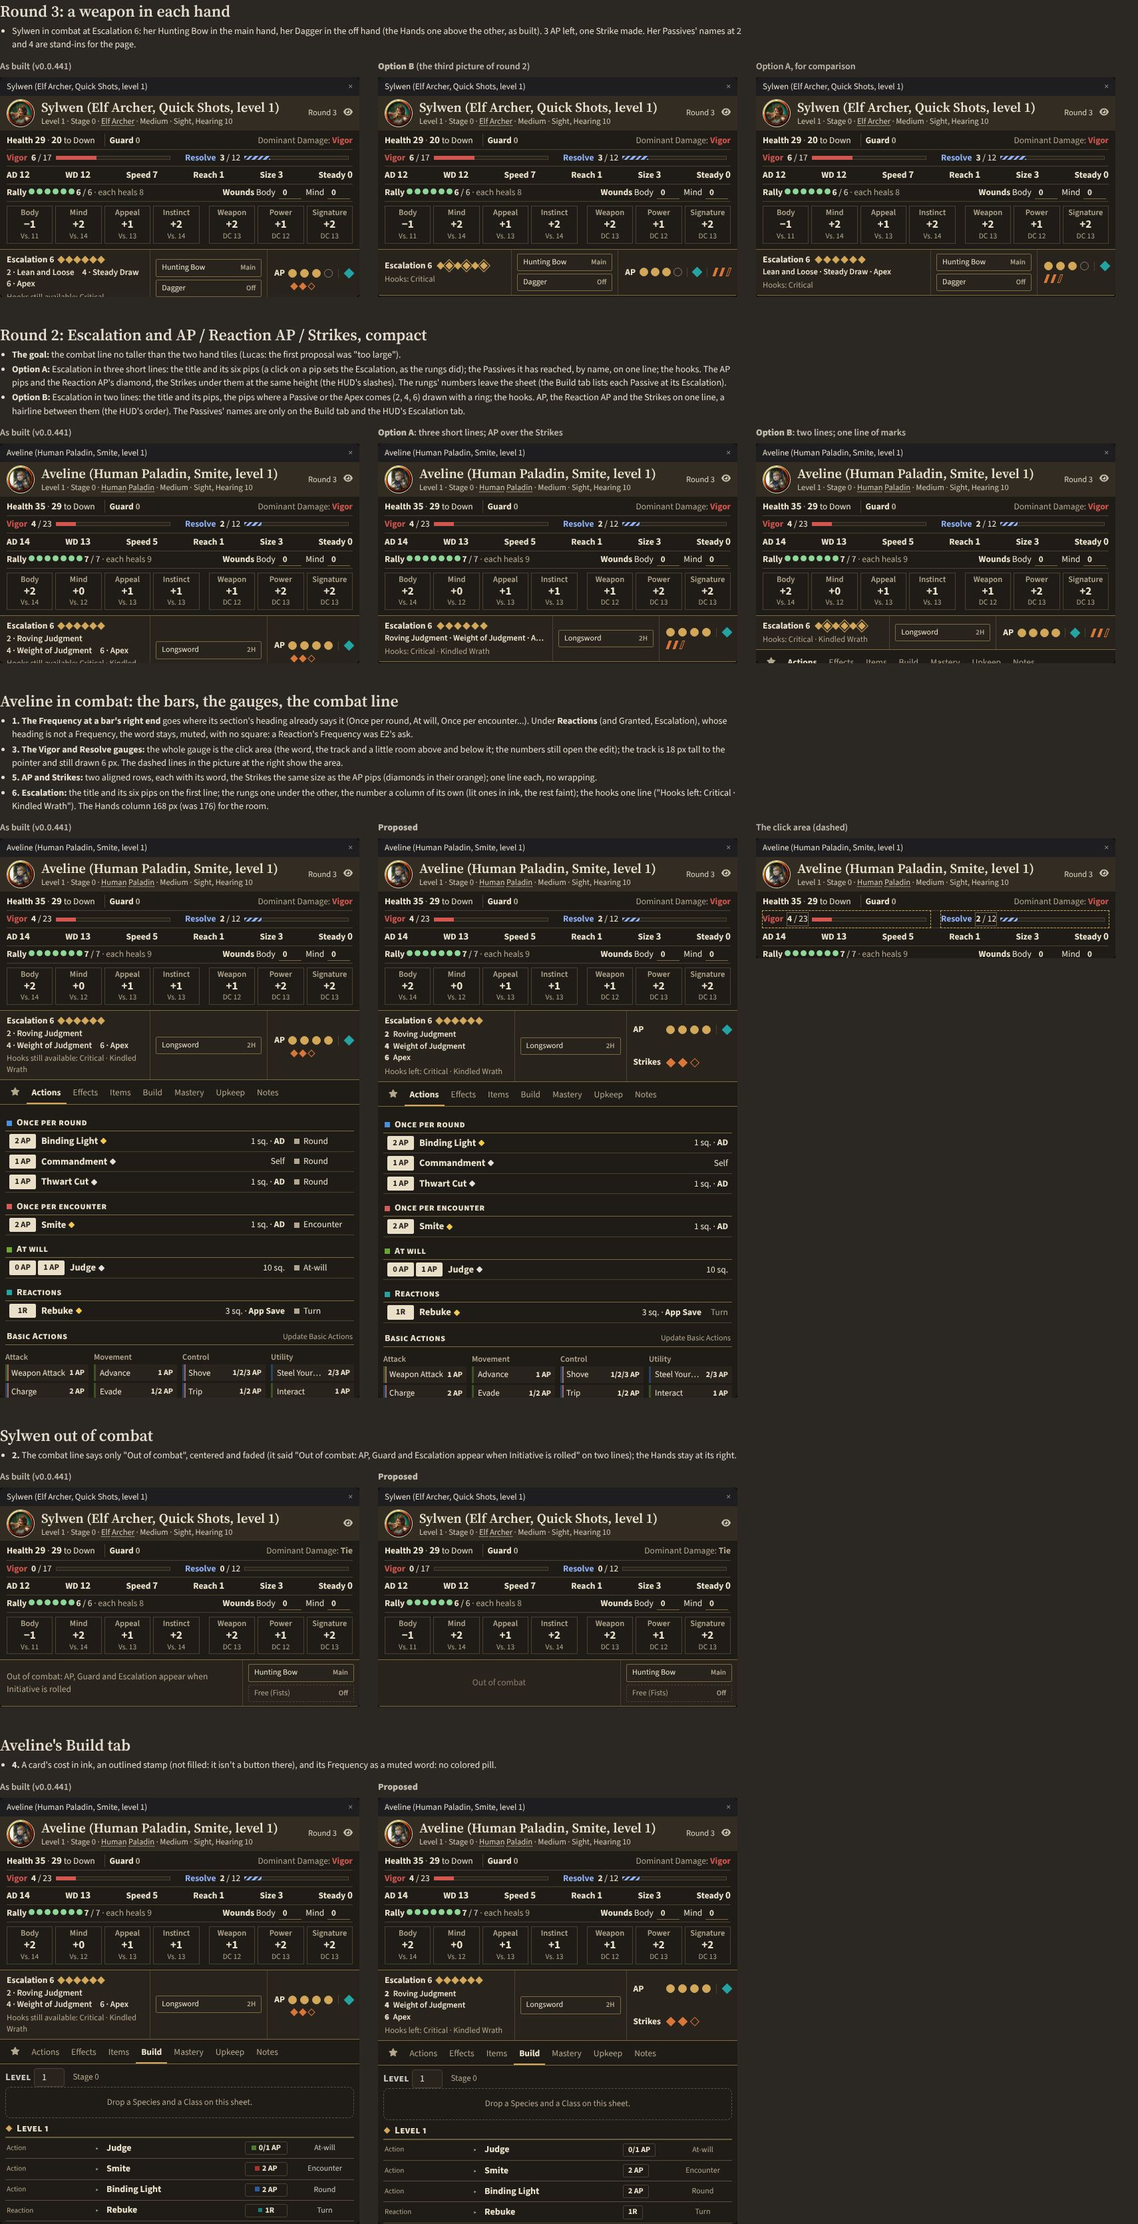
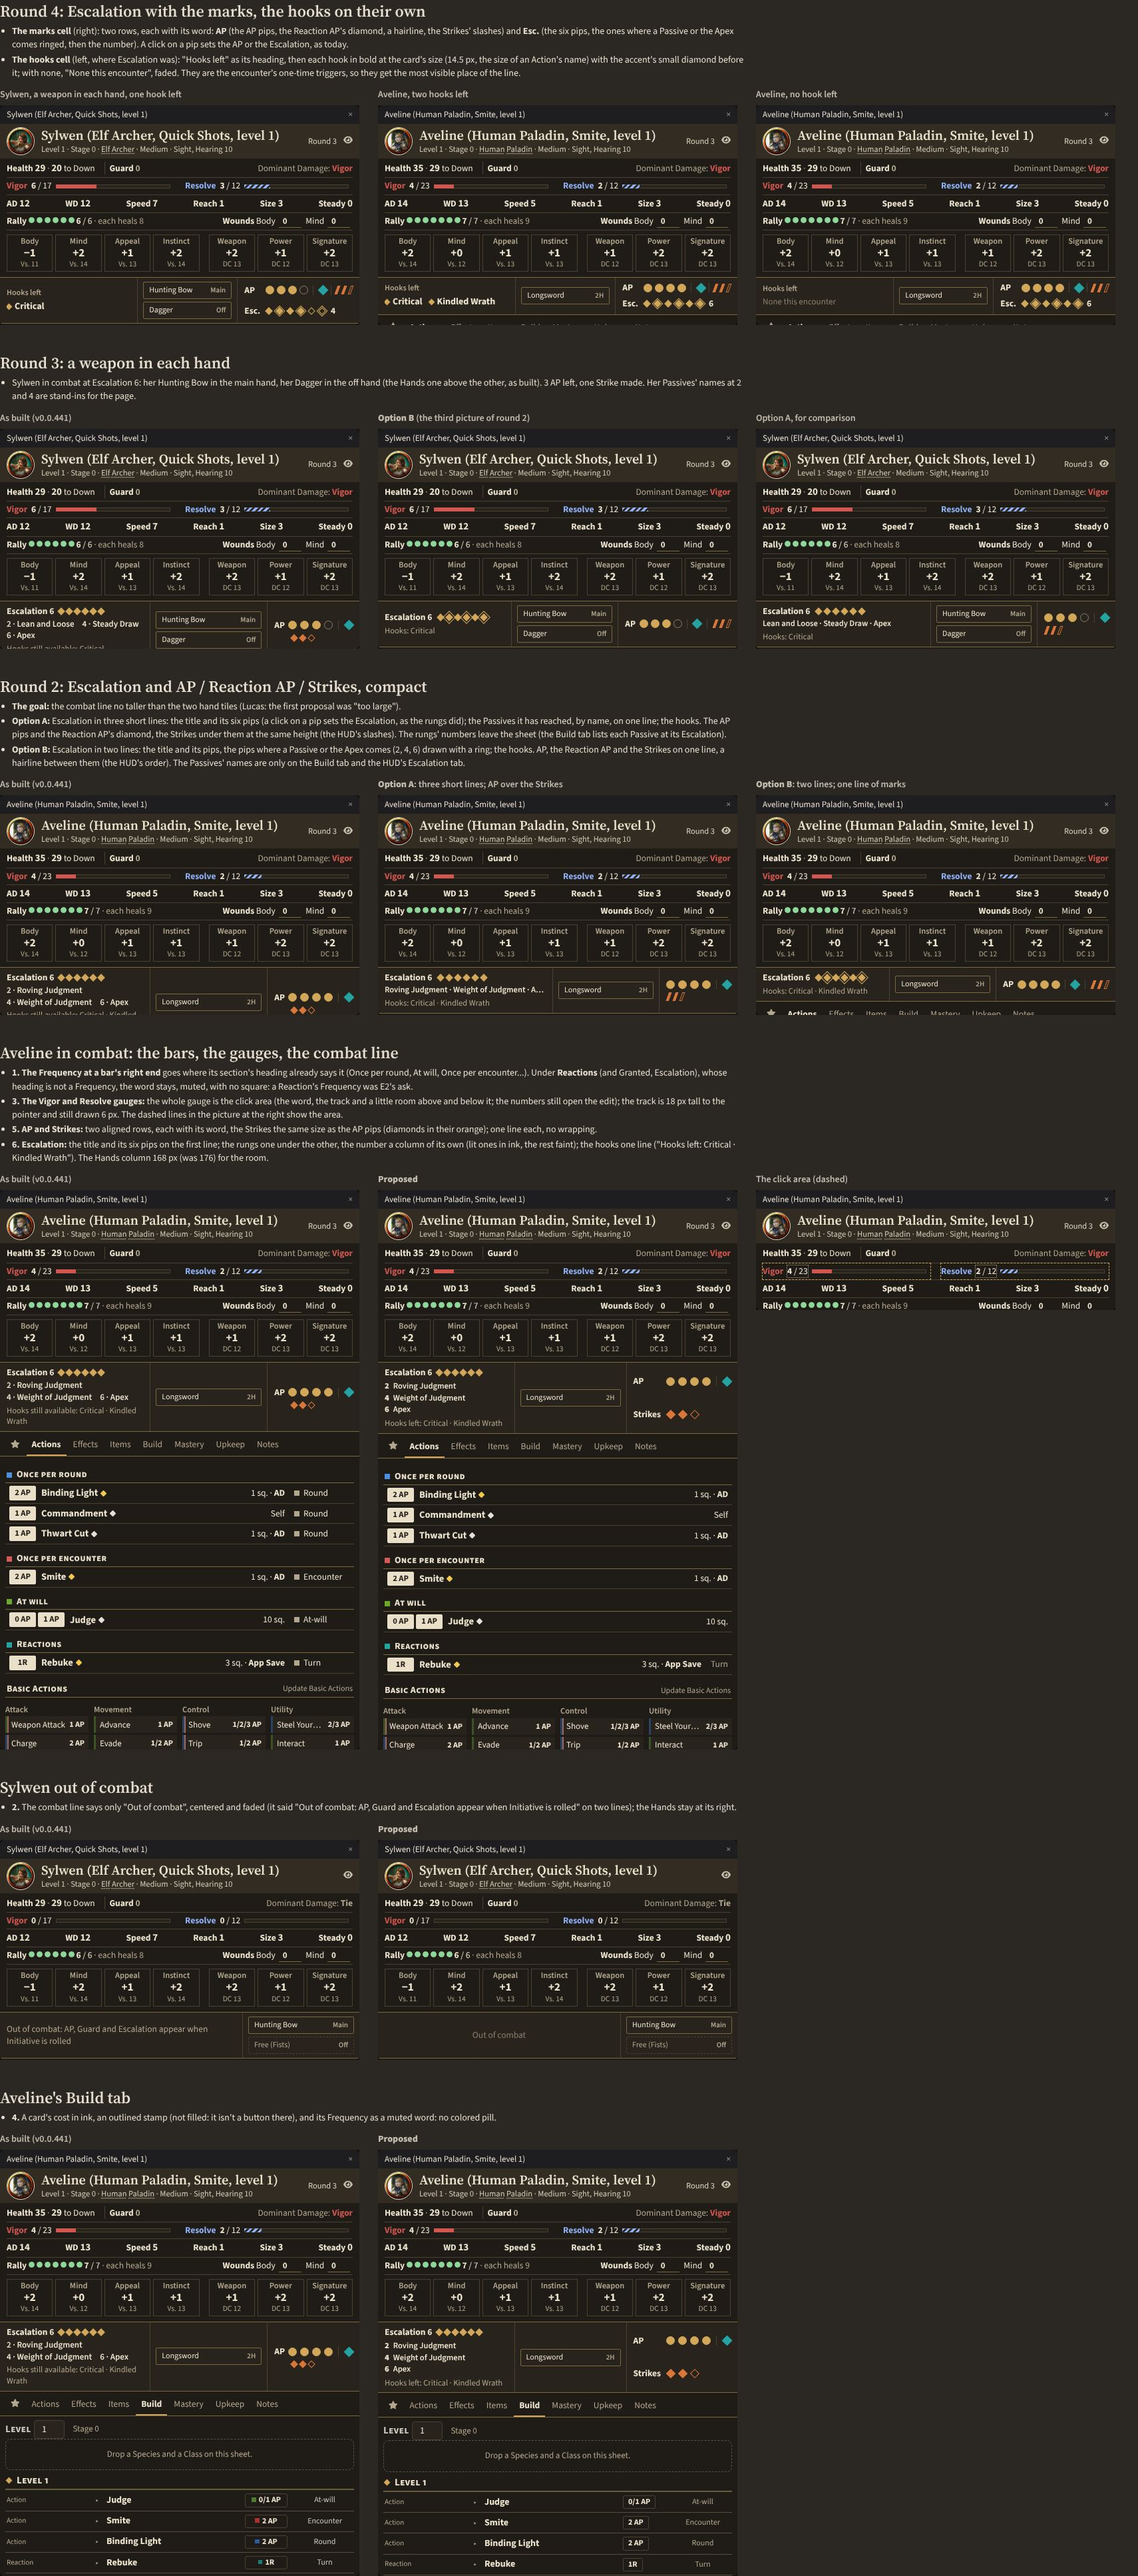
Mockup: Escalation with the AP marks, the hooks on their own
Claude-Session: https://claude.ai/code/session_0153o4CgPzGXNWFbB3JUtc8q

diff --git a/foundry/mockups/sheets/fixes.css b/foundry/mockups/sheets/fixes.css
@@ -47,3 +47,21 @@
 .fx-new .twod12.sheet.pcs.ps2 .fx-apb .fx-row { display: inline-flex; align-items: center; gap: 6px; } .fx-new .twod12.sheet.pcs.ps2 .fx-apb .ps2-pips { gap: 4px; }
 .fx-new .twod12.sheet.pcs.ps2 .fx-sep { display: inline-block; width: 1px; height: 14px; background: var(--s-hair); }
 .fx-new .twod12.sheet.pcs.ps2 .ps2-combat:has(.fx-apa), .fx-new .twod12.sheet.pcs.ps2 .ps2-combat:has(.fx-apb) { grid-template-columns: minmax(0, 1fr) 160px auto; }
+
+/* ---- round 4: the hooks pronounced; Escalation a row of the marks cell */
+.fx-new .twod12.sheet.pcs.ps2 .ps2-combat:has(.fx-apc) { grid-template-columns: minmax(0, 1fr) 160px auto; }
+.fx-new .twod12.sheet.pcs.ps2 .fx-hooks { gap: 3px; }
+.fx-new .twod12.sheet.pcs.ps2 .fx-hk { font-size: 12px; font-weight: 600; color: var(--s-mute); }
+.fx-new .twod12.sheet.pcs.ps2 .fx-hl { display: flex; flex-wrap: wrap; gap: 2px 14px; }
+.fx-new .twod12.sheet.pcs.ps2 .fx-hl b { display: inline-flex; align-items: center; gap: 6px; font-size: 14.5px; font-weight: 700; color: var(--s-ink); white-space: nowrap; }
+.fx-new .twod12.sheet.pcs.ps2 .fx-hl b i { width: 7px; height: 7px; transform: rotate(45deg); background: var(--s-gold); flex: none; }
+.fx-new .twod12.sheet.pcs.ps2 .fx-none { font-size: 13px; color: var(--s-faint); }
+.fx-new .twod12.sheet.pcs.ps2 .ps2-ap.fx-apc { display: grid; grid-template-columns: auto auto; align-items: center; justify-content: start; gap: 6px 8px; white-space: nowrap; }
+.fx-new .twod12.sheet.pcs.ps2 .fx-apc .fx-row { display: inline-flex; align-items: center; gap: 6px; } .fx-new .twod12.sheet.pcs.ps2 .fx-apc .ps2-pips { gap: 4px; }
+.fx-new .twod12.sheet.pcs.ps2 .fx-apc .ps2-strk { display: inline-flex; gap: 4px; padding: 0; }
+.fx-new .twod12.sheet.pcs.ps2 .fx-apc .ps2-strk i { width: 4px; height: 13px; transform: skewX(-20deg); border: 1.5px solid rgb(217, 119, 58); box-sizing: border-box; margin: 0 1px; } .fx-new .twod12.sheet.pcs.ps2 .fx-apc .ps2-strk i.on { background: rgb(217, 119, 58); }
+.fx-new .twod12.sheet.pcs.ps2 .fx-apc .fx-n { font-size: 13.5px; margin-left: 2px; } .fx-new .twod12.sheet.pcs.ps2 .fx-apc .fx-ep { gap: 4px; }
+.fx-new .twod12.sheet.pcs.ps2 .fx-apc .bane { grid-column: 1 / -1; }
+.fx-new .twod12.sheet.pcs.ps2 .fx-hl { flex-wrap: nowrap; gap: 0 10px; overflow: hidden; } .fx-new .twod12.sheet.pcs.ps2 .fx-hl b { font-size: 14px; gap: 5px; }
+.fx-new .twod12.sheet.pcs.ps2 .fx-apc .fx-ep { gap: 6px; } .fx-new .twod12.sheet.pcs.ps2 .fx-apc .fx-ep a.rg { outline-offset: 1.5px; }
+.fx-new .twod12.sheet.pcs.ps2 .ps2-combat:has(.fx-apc) { grid-template-columns: minmax(0, 1fr) 150px auto; }

diff --git a/foundry/mockups/sheets/README.md b/foundry/mockups/sheets/README.md
@@ -158,3 +158,8 @@ hooks); AP, the Reaction AP and the Strikes on one line. In both the rungs' numb
 **Round 3 (Lucas: "I like C. But I need to see with two weapons, one on each hand"; "C" read as the third picture, Option B):** at the top of
 the page, Sylwen with her Hunting Bow in the main hand and her Dagger in the off hand: the build, Option B, Option A
 (`fixes-two-hands-dark.jpg`, `fixes-two-hands-light.jpg`). With B the combat line is the two hand tiles' height.
+
+**Round 4 (Lucas: "Put escalation (not the hooks) on the same section as AP/R/Strikes, and make the Hooks more pronunced"):** at the top of the
+page (`fixes-hooks-dark.jpg`, `fixes-hooks-light.jpg`): the marks cell has two rows, AP (pips, the Reaction AP, the Strikes' slashes) and Esc.
+(six pips, the rungs ringed, the number); the left cell holds only the hooks: "Hooks left", then each hook in bold at an Action name's size with
+the accent's small diamond, or "None this encounter", faded. Drawn with one hook (Sylwen, a weapon in each hand), two and none (Aveline).
